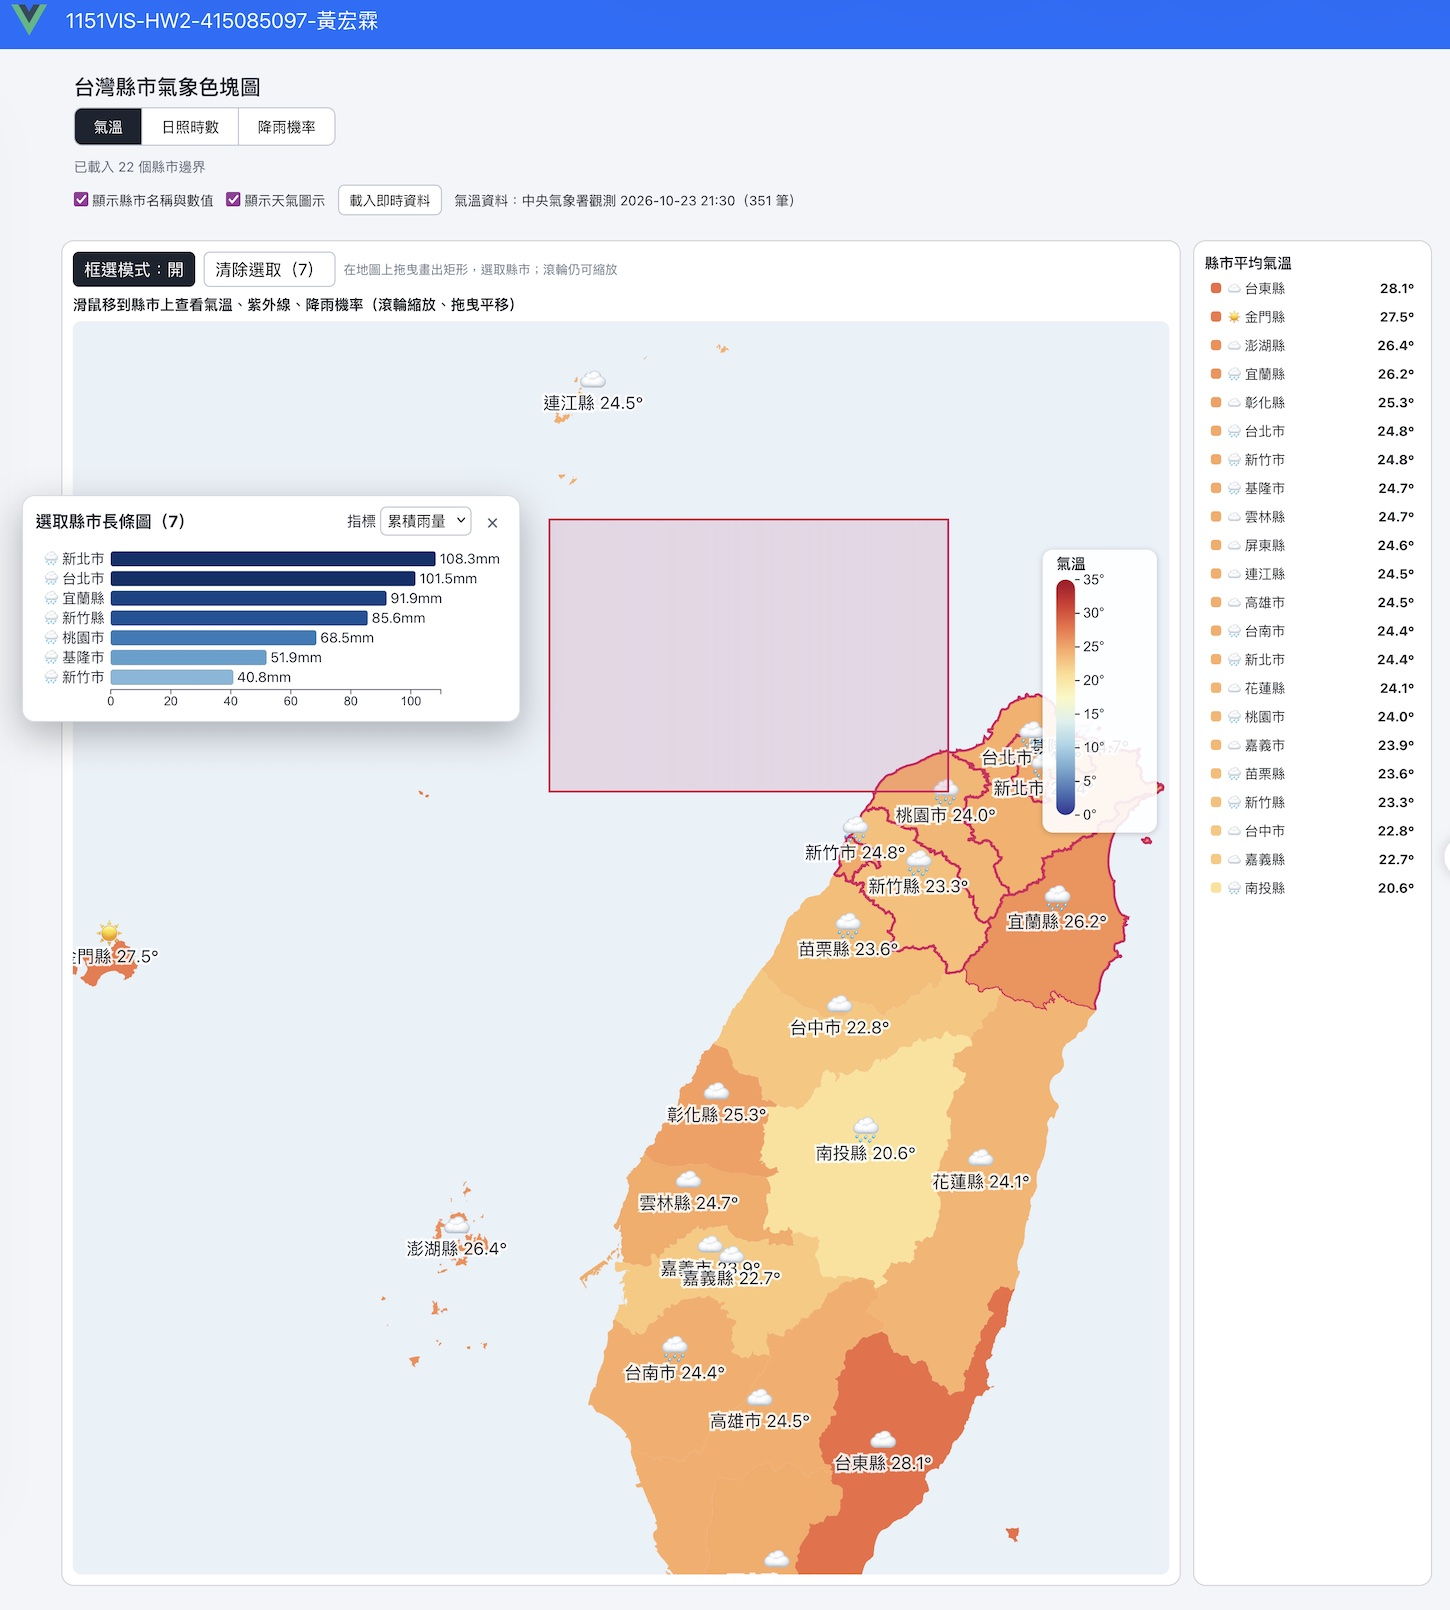
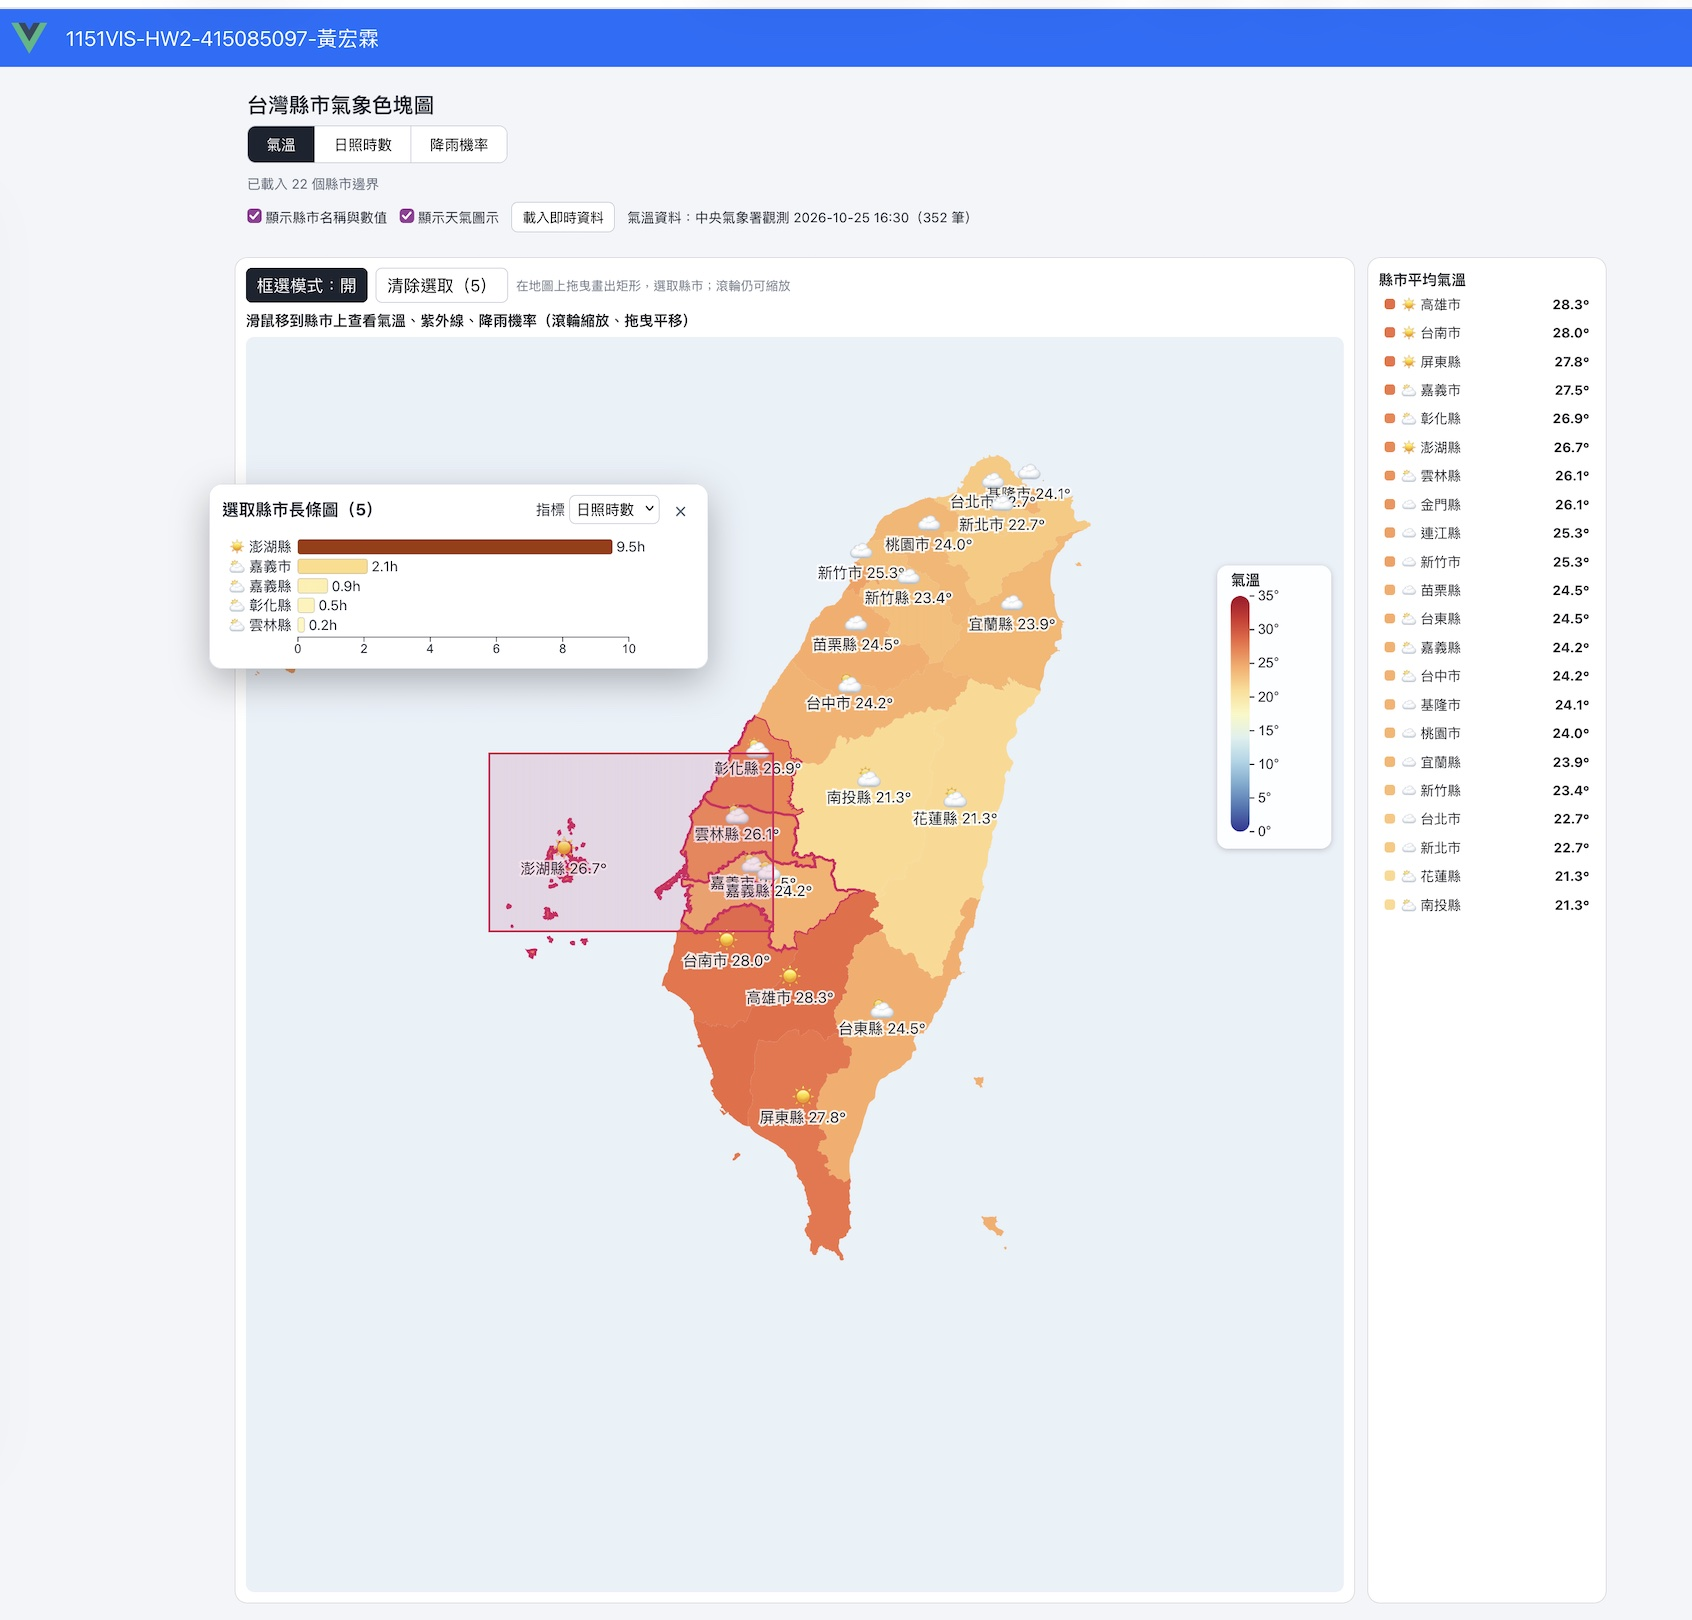
update README demo.jpg

diff --git a/README.md b/README.md
@@ -4,13 +4,16 @@
 
 資料分析與視覺化應用 HW2 - 415085097 黃宏霖  
 GitHub 專案：[https://github.com/kong0422/1151VIS-HW2-415085097-HuangHungLin](https://github.com/kong0422/1151VIS-HW2-415085097-HuangHungLin)  
-Youtube：還沒做  
+Youtube：[https://youtu.be/AqWZC52pzoU](https://youtu.be/AqWZC52pzoU) 
 線上展示：[https://kong0422.github.io/1151VIS-HW2-415085097-HuangHungLin/](https://kong0422.github.io/1151VIS-HW2-415085097-HuangHungLin/)
 
-以 **Vue 3.5 + D3.js + TopoJSON** 製作的台灣縣市氣象地圖。每個縣市依「轄內測站的平均值」直接填上顏色。
-延續第一次作業，增加拖曳框選功能(brushing)，框選的縣市會顯示彈跳視窗，並加入長條圖(bar chart)並以升序排序選取的資料，
-還可依照下拉選單切換指標（氣溫、累積雨量、日照時數、紫外線指數、天氣現象）。
-調整首頁指標切換把紫外線先改成日照時數，並把顏色標示圖從左下角改成右邊，這樣一打開網頁就看的到，不用移到最下面。
+> 以 **Vue 3.5 + D3.js + TopoJSON** 製作的台灣縣市氣象地圖。每個縣市依「轄內觀測站的指標平均值」直接填上顏色，  
+> 移動到該縣市自動加上提示框(Tooltip)，內容為該縣市的天氣現象、氣溫、日照時數、紫外線指數、天氣現象等指標。  
+
+> 延續第一次作業，增加拖曳框選功能(Brush)，選取的縣市會顯示彈跳視窗內容為長條圖(Bar Chart)，方便查看臨近縣市指標  
+> 並以降序排序，最高最低一目了然， 還可依照下拉選單切換各項指標。
+
+> 另外調整首頁指標切換把紫外線先改成日照時數，避免氣象觀測站回傳紫外線為 0 的情況，因為太陽下山後紫外線的即時資料為 0。
 
 ![圖片展示](https://kong0422.github.io/1151VIS-HW2-415085097-HuangHungLin/demo.jpg)
 
@@ -55,12 +58,12 @@ Youtube：還沒做
 
 ### 五、框選縣市與長條圖快顯視窗（d3.brush）
 
-1. 按地圖上方的「框選模式」把它打開。
-2. 在地圖上拖曳畫出矩形，矩形內的縣市會被選取，並以粉紅色邊框標示。判斷方式是「縣市中心點是否落在矩形內」，縮放或平移後依然準確。
-3. **放開滑鼠後，會跳出「選取縣市長條圖」快顯視窗**：由高到低排序，長條顏色與地圖相同，並附天氣圖示與數值，沒有資料的縣市顯示「無資料」。
-4. 視窗右上角的「指標」可選擇氣溫、日照時數、降雨機率、紫外線、累積雨量，預設會跟著地圖目前的指標。
-5. 視窗可以**按住標題列拖曳**到想要的位置（預設在右下角）；再次框選時視窗會即時更新。
-6. 按視窗右上角的「×」關閉視窗，選取的縣市仍會保留，地圖上方會出現「顯示長條圖」按鈕可再次打開；按「清除選取」，或在地圖上單擊一下空白處，則會取消選取並關閉視窗。
+- 按地圖上方的「框選模式」把它打開。
+- 在地圖上拖曳畫出矩形，矩形內的縣市會被選取，並以粉紅色邊框標示。判斷方式是「縣市中心點是否落在矩形內」，縮放或平移後依然準確。
+- **放開滑鼠後，會跳出「選取縣市長條圖」快顯視窗**：由高到低排序，長條顏色與地圖相同，並附天氣圖示與數值，沒有資料的縣市顯示「無資料」。
+- 視窗右上角的「指標」可選擇氣溫、日照時數、降雨機率、紫外線、累積雨量，預設會跟著地圖目前的指標。
+- 視窗可以**按住標題列拖曳**到想要的位置（預設在右下角）；再次框選時視窗會即時更新。
+- 按視窗右上角的「×」關閉視窗，選取的縣市仍會保留，地圖上方會出現「顯示長條圖」按鈕可再次打開；按「清除選取」，或在地圖上單擊一下空白處，則會取消選取並關閉視窗。
 
 注意：框選模式開啟時，滑鼠拖曳會變成框選，不會出現提示窗；**滾輪縮放仍可使用**。要平移或查看提示窗時，把框選模式關掉即可（已選取的縣市會保留）。
 
@@ -85,29 +88,29 @@ Youtube：還沒做
 
 頁面開啟時**預設顯示一組範例資料**（22 個縣市、29 個測站的示意值，不是真實觀測），頁面開啟時會先跑一次API去抓取觀測資料，先放預設資料是為了避免因為網路問題API抓不到資料而無法顯示地圖, 
 資料更新方式有兩種：
- - **自動更新** ：每隔10分鐘會呼叫更新的資料API，並更新頁面上最後資料時間。 
- - **直接呼叫氣象署**：點擊「載入即時資料」的按紐便會立即呼叫更新的資料API。
+- **自動更新** ：每隔10分鐘會呼叫更新的資料API，並更新頁面上最後資料時間。 
+- **直接呼叫氣象署**：點擊「載入即時資料」的按紐便會立即呼叫更新的資料API。
 
 ## 資料整理與製作過程
 
 ### 一、資料取得
 
-1. **選資料集**：以「縣市」為單位呈現，所以選了能對應到縣市的三個氣象署資料集（`O-A0003-001` 現在天氣觀測、`O-A0005-001` 紫外線每日最大值、`F-C0032-001` 36 小時預報），欄位依官方欄位說明文件與資料集說明頁確認。
-2. **取得縣市邊界**：使用 `taiwan-atlas` 的縣市 TopoJSON，由 `topojson-client` 轉成 GeoJSON 後交給 D3 繪製。
-3. **取得方式**：氣象署 API 需要先註冊帳號申請授權碼。
+- **選資料集**：以「縣市」為單位呈現，所以選了能對應到縣市的三個氣象署資料集（`O-A0003-001` 現在天氣觀測、`O-A0005-001` 紫外線每日最大值、`F-C0032-001` 36 小時預報），交互整理，因為有的資料只有顯示觀測站名稱。
+- **取得縣市邊界**：使用 `taiwan-atlas` 的縣市 TopoJSON，由 `topojson-client` 轉成 GeoJSON 後交給 D3 繪製。
+- **取得方式**：氣象署 API 需要先註冊帳號申請授權碼。
 
 ### 二、資料清理與彙整
 
-| 步驟 | 處理方式 | 原因 |
-|---|---|---|
-| 缺值過濾 | 負值（如 `-99`）視為缺值並略過；氣溫限定在 -50～60 °C、日照 0～24 小時、雨量 0～1500 mm | 排除感測器故障或無感測器的測站 |
-| 微量雨量 | 累積雨量 `-998`（微量）以 0 計 | 避免出現負值 |
-| 縣市名稱正規化 | 比對時把「台」統一成「臺」 | 不同資料來源寫法不一致，避免整理資料無法對同縣市無法正常對應 |
-| 測站 → 縣市 | 取各測站所屬縣市的平均值 | 因為資料來源是以觀測站為主 |
-| 紫外線對應 | 每日最大值資料只有測站代碼，用 `O-A0003-001` 的測站清單把代碼對應回縣市 | 該資料集沒有縣市欄位 |
-| 紫外線全為 0 | 若只取得即時讀數且全部是 0，視為沒有資料 | 夜間與日出前後的即時讀數本來就是 0，畫出來會誤導成「紫外線為 0」 |
-| 天氣現象 | 同縣市觀測站取最常出現天氣；觀測資料`O-A0003-001.Weather`有時天氣欄位會空白，空白的縣市改用天氣預報`F-C0032-001.Wx`的欄位補上 | `O-A0003-001.Weather` 欄位有時會有空白資料 |
-| 降雨機率 | `F-C0032-001` 預報資料最近一個時段的 `PoP` | 預報本身就是縣市層級，不需再平均 |
+| 步驟 | 處理方式 | 原因                                                                     |
+|---|---|--------------------------------------------------------------------------|
+| 缺值過濾 | 負值（如 `-99`）視為缺值並略過；氣溫限定在 -50～60 °C、日照 0～24 小時、雨量 0～1500 mm | 排除感測器故障或無感測器的觀測站                                         |
+| 微量雨量 | 累積雨量 `-998`（微量）以 0 計 | 避免出現負值                                                             |
+| 縣市名稱正規化 | 比對時把「台」統一成「臺」 | 不同資料來源寫法不一致，避免整理資料無法對同縣市無法正常對應             |
+| 測站 → 縣市 | 取各測站所屬縣市的平均值 | 因為資料來源是以觀測站為主                                               |
+| 紫外線對應 | 每日最大值資料只有測站代碼，用 `O-A0003-001` 的測站清單把代碼對應回縣市 | 該資料集沒有縣市欄位                                                     |
+| 紫外線全為 0 | 若只取得即時讀數且全部是 0，視為沒有資料 | 夜間與日出前後的即時讀數本來就是 0，畫出來會誤導成「紫外線為 0」         |
+| 天氣現象 | 同縣市觀測站取最常出現天氣；觀測資料`O-A0003-001.Weather`有時天氣欄位會空白，空白的縣市改用天氣預報`F-C0032-001.Wx`的欄位補上 | `O-A0003-001.Weather` 欄位有時會有空白資料                               |
+| 降雨機率 | `F-C0032-001` 預報資料最近一個時段的 `PoP` | 預報本身就是縣市層級，不需再平均                                         |
 | 日照時數色階 | 色階上限依目前資料自動決定（≤1 → 1，否則取 2 的倍數） | 尚未確認該欄位是每小時值還是當日累積值，自動適應才不會整張圖顏色糊成一片 |
 
 整理後的縣市資料格式CSV（縣市、氣溫、日照時數、降雨機率、紫外線、累積雨量、氣溫測站數、天氣），也是本來打算使用資料內嵌放進頁面的格式。
